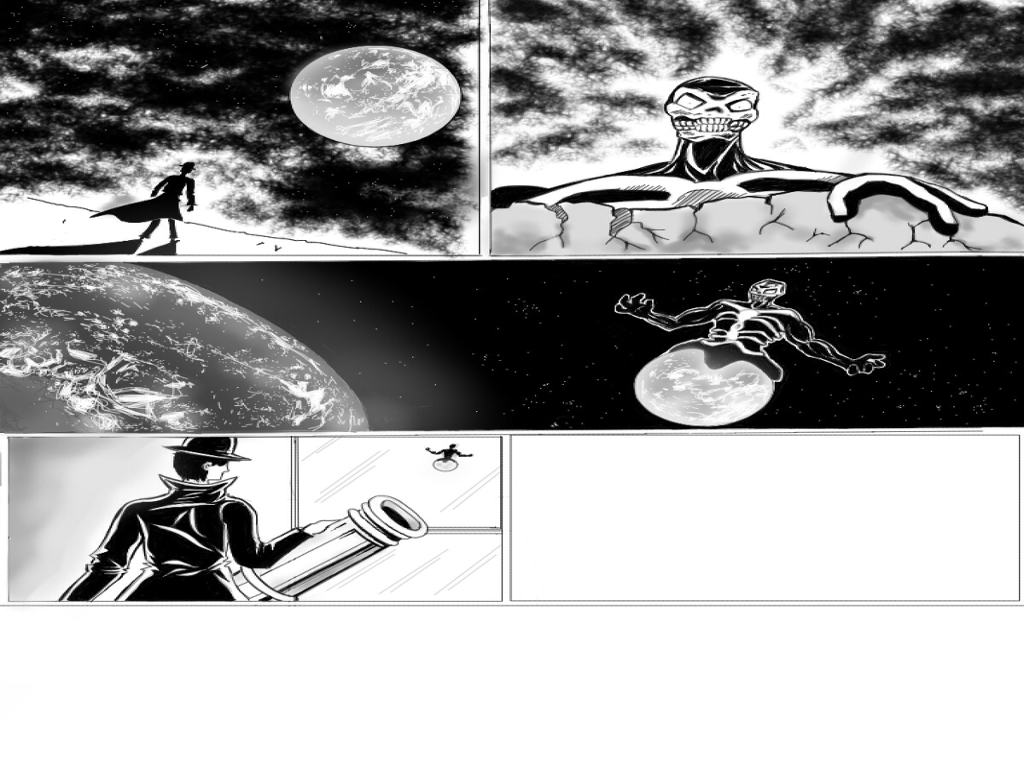
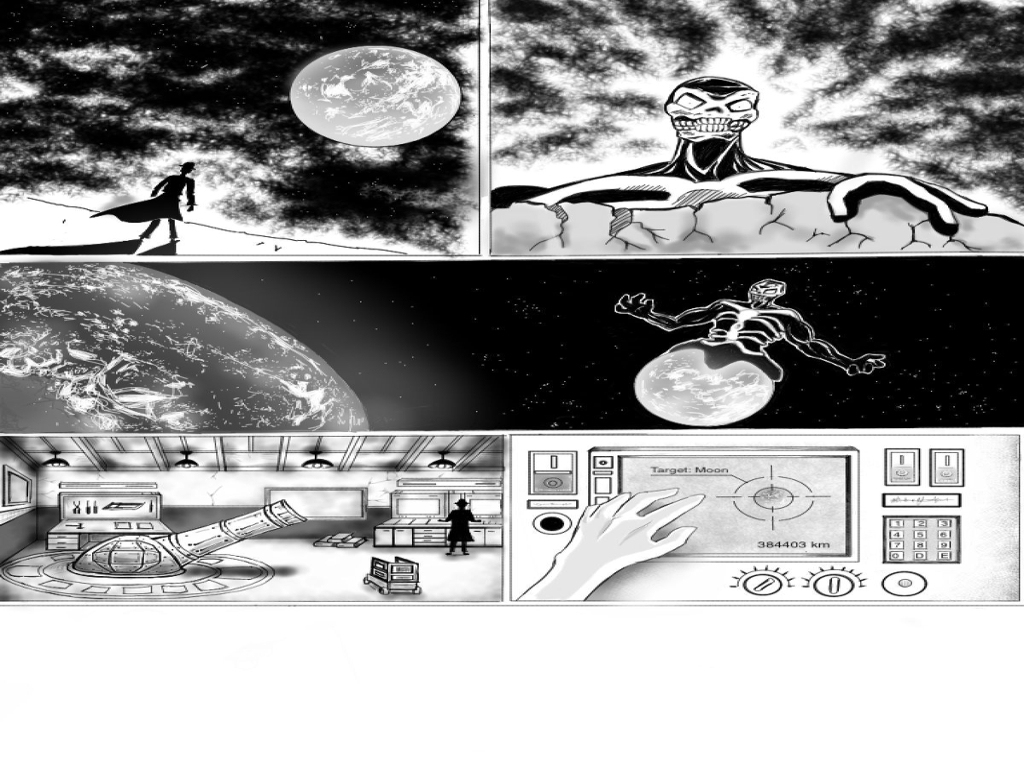
Added font authors to README and credits; updated comic
- "Quit game" malloc error seems to have stopped after removing
  dispose() method before leaving the program

Changed region(s): [[0.0, 0.5625, 1.0, 0.7812], [0.625, 0.7812, 0.6562, 0.8125]]

diff --git a/core/src/br/com/techschool/lunarkiller/screen/start/StartScreen.java b/core/src/br/com/techschool/lunarkiller/screen/start/StartScreen.java
@@ -174,9 +174,7 @@ public class StartScreen extends GenericScreen {
                     phase = Phase.START_CREDITS;
                 }
                 else if (startMenu.isButtonChecked(Command.QUIT)) {
-                    // TODO: Find better way of exiting the game
                     soundTrack.stop();
-                    dispose();
                     Gdx.app.exit();
                 }
                 break;

diff --git a/README.md b/README.md
@@ -26,10 +26,17 @@ libGDX
 Special Thanks
 --------------
 
-- [G3DJ to G3DB Converter][convertUrl]
+- Dancovich's [G3DJ to G3DB Converter][convertUrl]
 - [Kenny][kennyUrl] for [UI element][uiUrl] on start menu buttons
+- [Andrew McCluskey][cluskeyUrl] for the Rawhide Raw 2012 font used on the start menu
+- [Ray Larabie][rayUrl] from [Typodermic Fonts Inc.][typoUrl] for the
+  [Neuropolitical font][neuroUrl] mainly used throughout the game
 
 [convertUrl]: https://github.com/Dancovich/libgdx_g3db_converter "Github page"
 [kennyUrl]:   http://kenney.nl/ "Kenny's Website"
 [uiUrl]:      http://www.microbasic.net/2014/05/free-cc0-ui-elements-to-be-used-in-your-libgdx-games/
               "Website where UI element was acquired"
+[cluskeyUrl]: http://fontstruct.com/fontstructions/show/682516 "Rawhide Raw 2012 font"
+[RayUrl]:     https://about.me/raylarabie "About Ray Larabie"
+[typoUrl]:    http://typodermicfonts.com/
+[neuroUrl]:   http://typodermicfonts.com/neuropolitical-science/ "Neuropolitical font"
